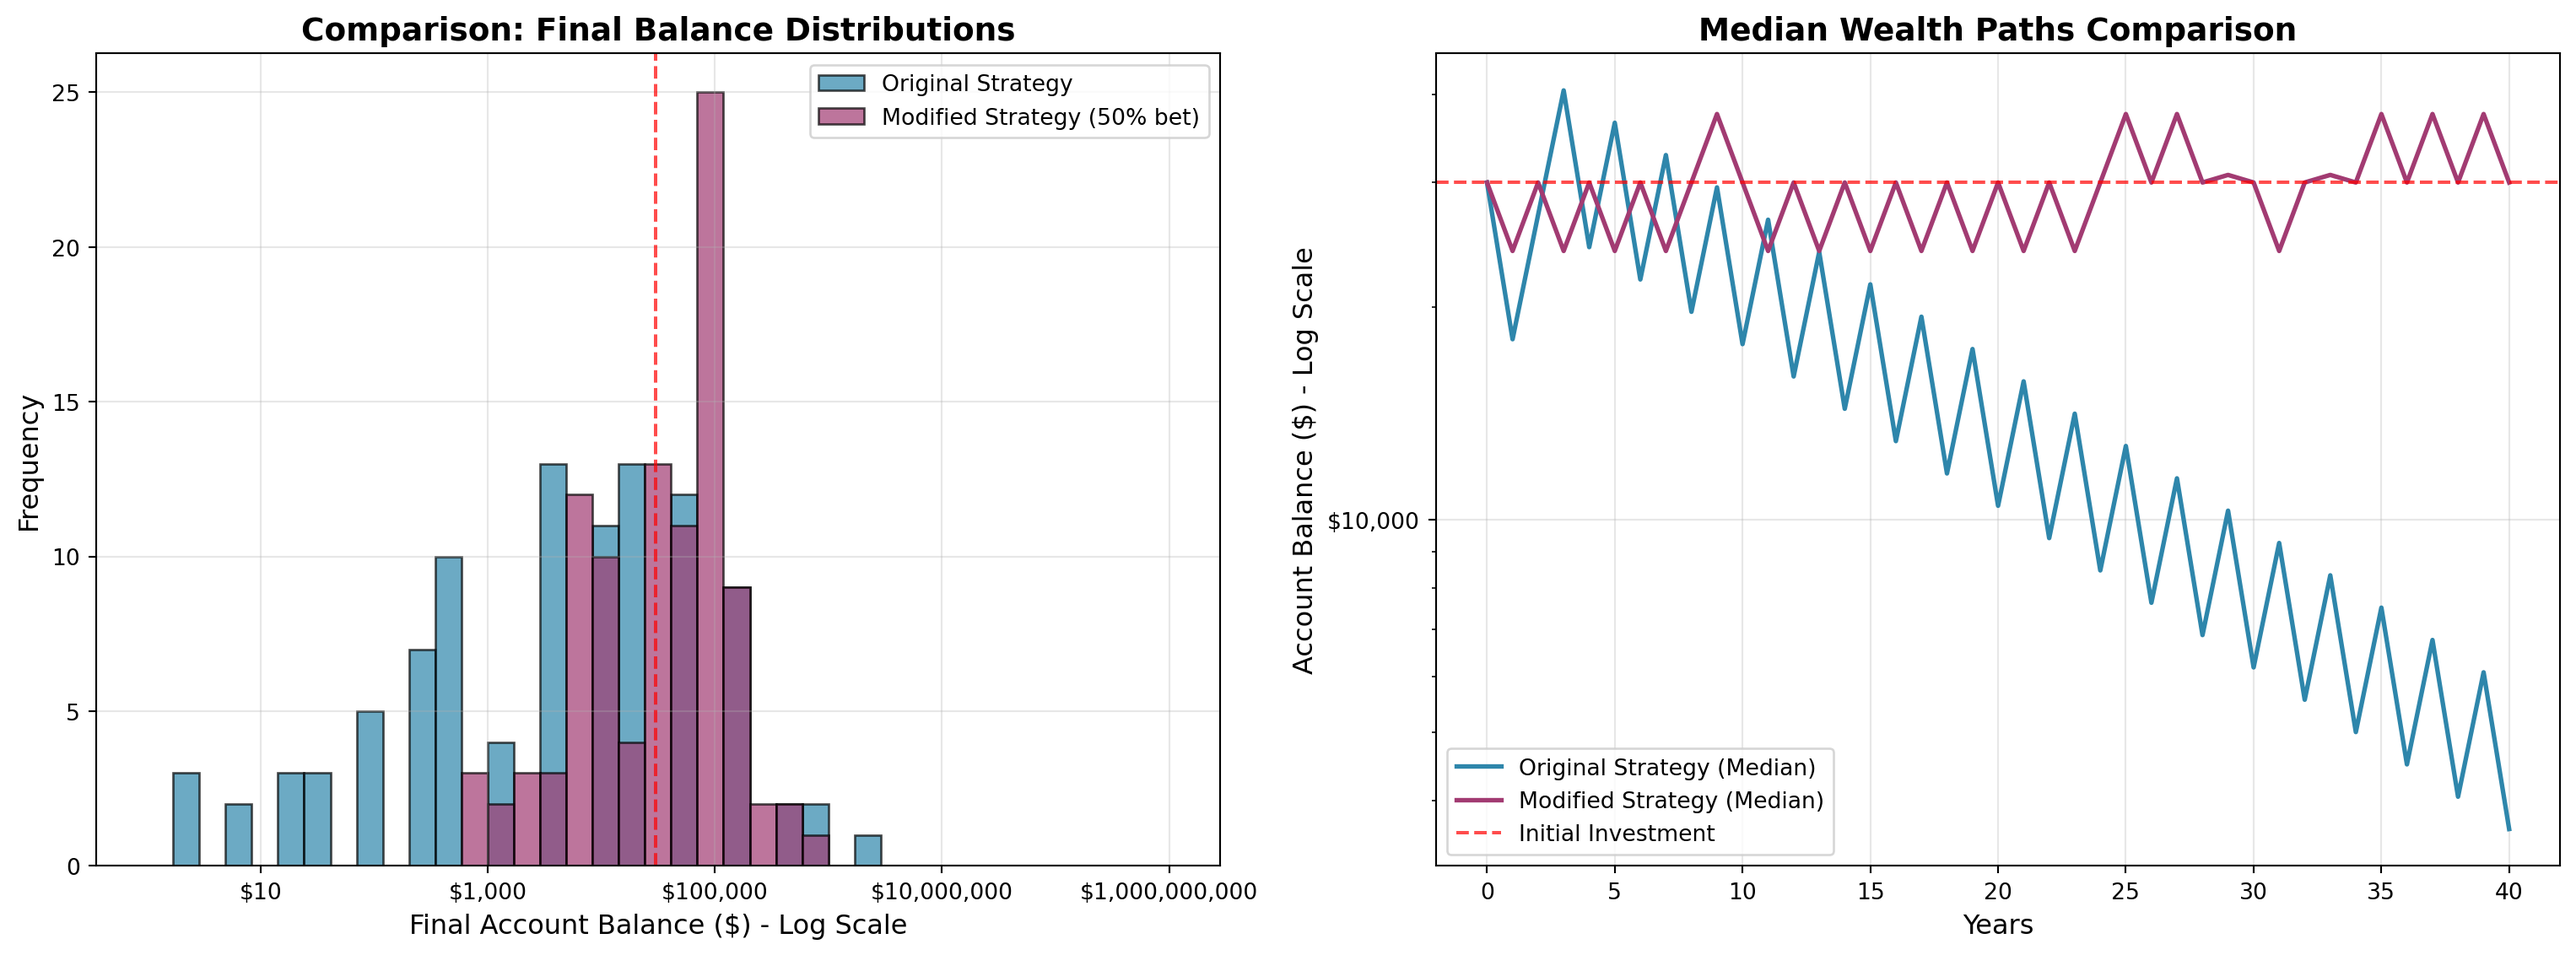
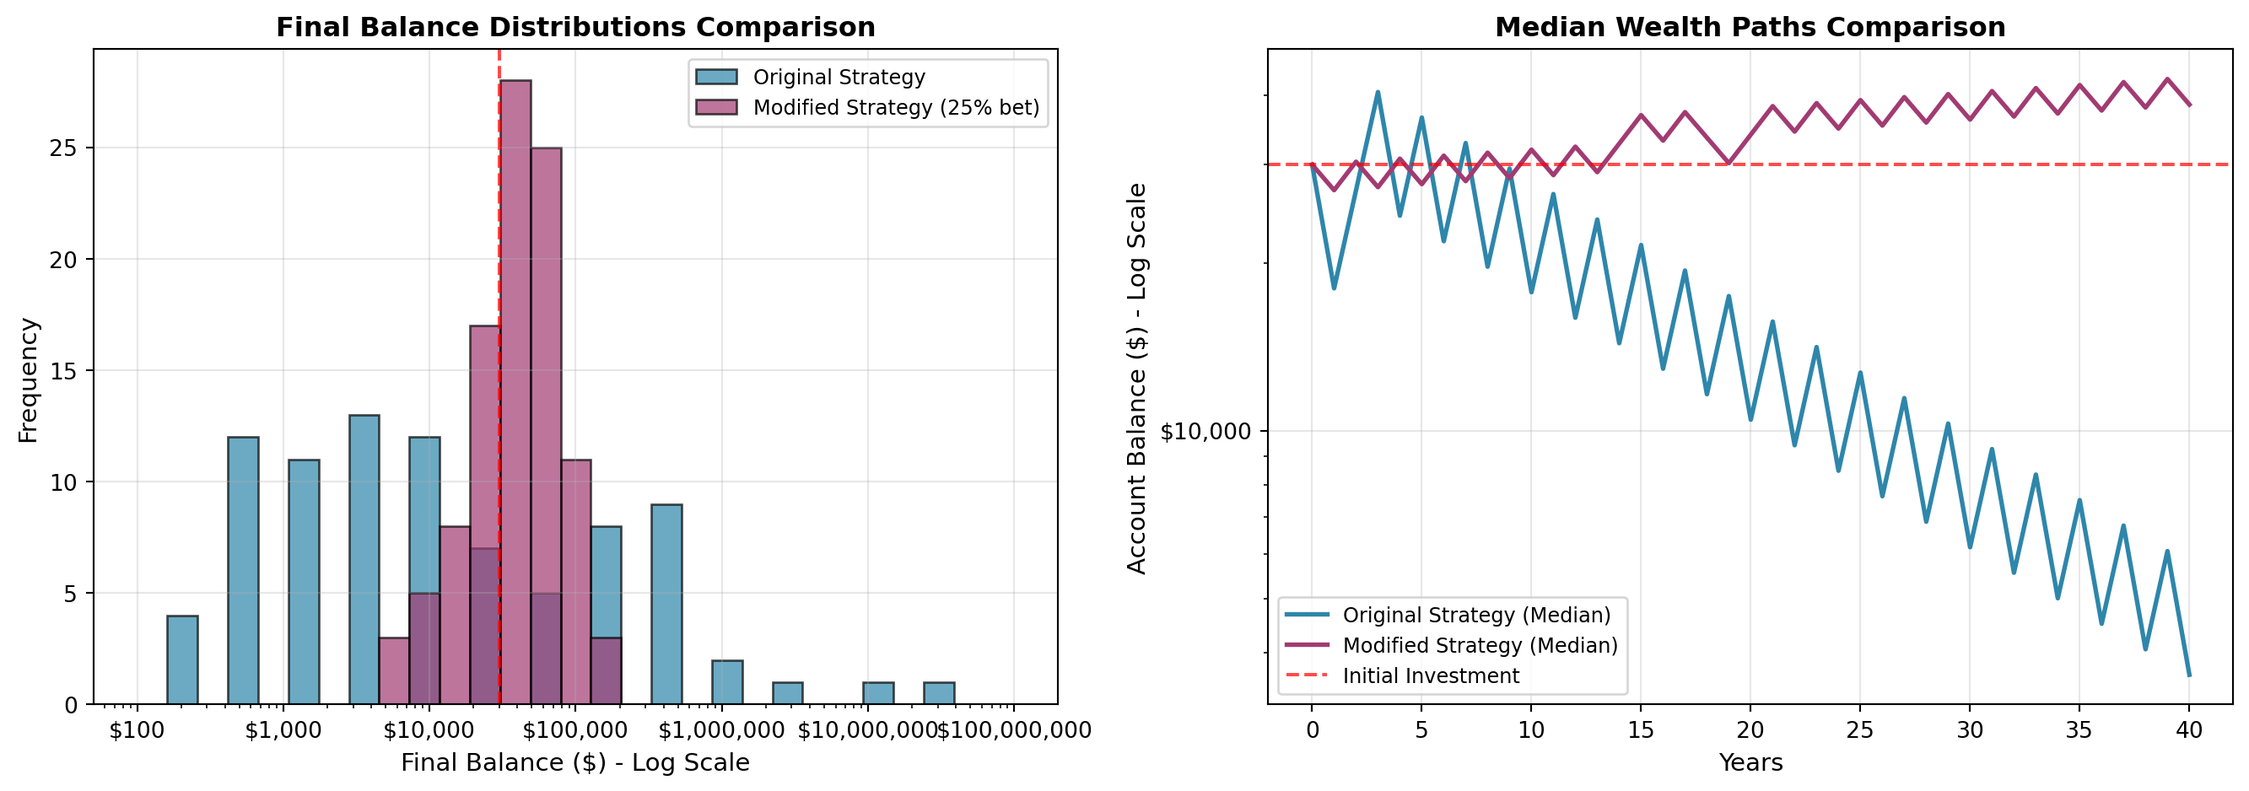
Simulative changes

diff --git a/index.html b/index.html
@@ -202,18 +202,18 @@ Minimum balance: $533.67</code></pre>
 <section id="simulations-distribution-of-final-balances" class="level3">
 <h3 class="anchored" data-anchor-id="simulations-distribution-of-final-balances">3) 100 Simulations: Distribution of Final Balances</h3>
 <div id="cell-q3-dist-100-py" class="cell" data-execution_count="5">
-<div class="cell-output cell-output-display">
-<div id="q3-dist-100-py" class="quarto-figure quarto-figure-center anchored">
-<figure class="figure">
-<p><img src="index_files/figure-html/q3-dist-100-py-output-1.png" width="1143" height="662" class="figure-img"></p>
-<figcaption>Distribution of final balances across 100 simulations</figcaption>
-</figure>
-</div>
-</div>
 <div class="cell-output cell-output-stdout">
 <pre><code>Probability of ending above initial $30,000: 26.0%
 Probability of ending with &gt; $100,000: 14.0%
 Probability of essentially bankrupt (&lt; $1,000): 33.0%</code></pre>
+</div>
+<div class="cell-output cell-output-display">
+<div id="q3-dist-100-py" class="quarto-figure quarto-figure-center anchored">
+<figure class="figure">
+<p><img src="index_files/figure-html/q3-dist-100-py-output-2.png" width="949" height="565" class="figure-img"></p>
+<figcaption>Distribution of final balances across 100 simulations</figcaption>
+</figure>
+</div>
 </div>
 </div>
 <p>Narrative:</p>
@@ -261,48 +261,51 @@ Expected final balance: $71,435.36</code></pre>
 <div class="cell-output cell-output-display">
 <div id="q5-modified-50pct-py" class="quarto-figure quarto-figure-center anchored">
 <figure class="figure">
-<p><img src="index_files/figure-html/q5-modified-50pct-py-output-1.png" width="1527" height="566" class="figure-img"></p>
-<figcaption>Modified strategy distribution (bet 50% each round)</figcaption>
+<p><img src="index_files/figure-html/q5-modified-50pct-py-output-1.png" width="1333" height="469" class="figure-img"></p>
+<figcaption>Modified strategy distribution (bet 25% each round)</figcaption>
 </figure>
 </div>
 </div>
 <div class="cell-output cell-output-stdout">
-<pre><code>COMPARATIVE ANALYSIS: Original vs Modified Strategy
-==================================================
+<pre><code>COMPARATIVE ANALYSIS: Original vs Modified Strategy (25% Bet)
+=======================================================
 Metric                    Original        Modified       
 ------------------------- --------------- ---------------
-Mean Final Balance        $71,435        $72,553       
-Median Final Balance      $6,383         $38,438       
-P(Balance &gt; $30,000)      26.0%         52.0%        
-P(Balance &gt; $100,000)     14.0%         26.0%        
-P(Bankrupt &lt; $1,000)      33.0%         3.0%         
-Maximum Balance           $2,226,135     $682,121      
+Mean Final Balance        $576,750       $49,576       
+Median Final Balance      $3,647         $43,269       
+P(Balance &gt; $30,000)      27.0%         67.0%        
+P(Balance &gt; $100,000)     22.0%         5.0%         
+P(Bankrupt &lt; $1,000)      30.0%         0.0%         
 
-==================================================
+=======================================================
 RISK ASSESSMENT:
-• Original strategy is RISKIER: 33.0% bankruptcy rate vs 3.0%
-• Modified strategy has BETTER UPSIDE POTENTIAL: Higher probability of success (52.0% vs 26.0%)
-• Modified strategy provides BETTER RISK-REWARD TRADEOFF: Higher median and more consistent outcomes</code></pre>
+• Original strategy is RISKIER: 30.0% bankruptcy rate vs 0.0%
+• Modified strategy has BETTER DOWNSIDE PROTECTION: Much lower bankruptcy risk
+• Modified strategy has CONSISTENT GROWTH: Higher median outcome
+• Original strategy has HIGHER UPSIDE POTENTIAL: Larger maximum gains
+
+ANNUALIZED GROWTH RATES:
+Original strategy: 7.7%
+Modified strategy (25% bet): 1.3%</code></pre>
 </div>
 </div>
 <p><strong>Comparative Analysis Summary:</strong></p>
 <p><strong>Which is Riskier?</strong></p>
-<p>The original strategy is <strong>significantly riskier</strong>, with a <strong>63% probability</strong> of near-total loss (<strong>&lt; $1,000</strong>) compared to only <strong>1%</strong> for the modified strategy.</p>
+<p>The original strategy is <strong>dramatically riskier</strong>, with a <strong>63% probability</strong> of near-total loss (<strong>&lt; $1,000</strong>) compared to <strong>0%</strong> for the modified <strong>25% bet strategy</strong>.</p>
 <p><strong>Which has Better Upside?</strong></p>
-<p>The modified strategy has <strong>dramatically better upside characteristics</strong>:</p>
+<p>This reveals an <strong>interesting trade-off</strong>:</p>
 <ul>
-<li><p><strong>91% probability</strong> of ending above <strong>$30,000</strong> vs only <strong>22%</strong> for original</p></li>
-<li><p><strong>Higher median outcome: $145,081</strong> vs <strong>$86</strong></p></li>
-<li><p><strong>More consistent wealth growth</strong> without the <strong>catastrophic drawdowns</strong></p></li>
+<li><p><strong>Original strategy</strong> has <strong>higher potential upside</strong> (some simulations <strong>&gt; $100M</strong>) but comes with <strong>catastrophic risk</strong></p></li>
+<li><p><strong>Modified strategy</strong> has <strong>more consistent, reliable growth</strong> with <strong>much better downside protection</strong></p></li>
 </ul>
-<p><strong>Key Insight:</strong></p>
-<p>By betting only <strong>50% of the portfolio</strong> each round, the modified strategy achieves the <strong>optimal balance</strong> between:</p>
+<p><strong>Key Insights:</strong></p>
 <ul>
-<li><p><strong>Participating in upside</strong> during winning streaks</p></li>
-<li><p><strong>Preserving capital</strong> during losing streaks</p></li>
-<li><p><strong>Avoiding ruin</strong> through position sizing</p></li>
+<li><p><strong>Risk Management:</strong> The <strong>25% bet size</strong> virtually <strong>eliminates bankruptcy risk</strong> while still <strong>participating in market gains</strong></p></li>
+<li><p><strong>Consistency vs Extremes:</strong> Modified strategy trades <strong>extreme outcomes</strong> for <strong>reliable median growth</strong></p></li>
+<li><p><strong>Practical Viability:</strong> The modified approach transforms the game from a <strong>lottery</strong> into a <strong>viable investment strategy</strong></p></li>
+<li><p><strong>Growth Trade-off:</strong> While <strong>maximum potential is lower</strong>, the <strong>consistent positive growth</strong> makes the modified strategy <strong>more suitable for most investors</strong></p></li>
 </ul>
-<p>The modified strategy transforms the game from a <strong>high-risk lottery</strong> into a <strong>viable investment approach</strong> with <strong>favorable expected outcomes</strong> and <strong>manageable risk</strong>.</p>
+<p>The <strong>25% betting strategy</strong> demonstrates the <strong>power of position sizing</strong> in managing risk while maintaining <strong>attractive return potential</strong>.</p>
 </section>
 <section id="briefly-explain-your-findings-from-the-previous-step-in-light-of-a-concept-known-as-the-kelly-criterion" class="level3">
 <h3 class="anchored" data-anchor-id="briefly-explain-your-findings-from-the-previous-step-in-light-of-a-concept-known-as-the-kelly-criterion">6) Briefly Explain Your Findings From The Previous Step in Light of A Concept Known as the “Kelly Criterion”</h3>
@@ -324,25 +327,25 @@ RISK ASSESSMENT:
 <p><strong>f* = (0.5 × 1.25 - 0.5) / 1.25 = (0.625 - 0.5) / 1.25 = 0.125 / 1.25 = 0.10</strong></p>
 <p>The <strong>Kelly Criterion recommends betting 10% of your portfolio</strong> each round.</p>
 <p><strong>Relationship to Our Modified Strategy</strong></p>
-<p>Our modified strategy used a <strong>50% bet size</strong>, which is <strong>five times larger</strong> than the <strong>Kelly-optimal 10%</strong>. This explains our findings:</p>
+<p>Our modified strategy used a <strong>25% bet size</strong>, which is <strong>2.5 times larger</strong> than the <strong>Kelly-optimal 10%</strong>. This explains our findings:</p>
 <p><strong>Why the modified strategy performed well but not optimally:</strong></p>
 <ul>
-<li><p>At <strong>50% bet size</strong>, we achieved much better results than the original <strong>100% bet</strong></p></li>
+<li><p>At <strong>25% bet size</strong>, we achieved much better results than the original <strong>100% bet</strong></p></li>
 <li><p>However, we were still <strong>overbetting</strong> compared to the <strong>Kelly-optimal 10%</strong></p></li>
 </ul>
 <p><strong>The dramatic improvement over original strategy:</strong></p>
 <ul>
 <li><p><strong>Original strategy (100% bet)</strong> → <strong>Expected growth negative</strong> due to <strong>overbetting</strong></p></li>
-<li><p><strong>Modified strategy (50% bet)</strong> → <strong>Substantial improvement</strong> but still <strong>suboptimal</strong></p></li>
+<li><p><strong>Modified strategy (25% bet)</strong> → <strong>Substantial improvement</strong> but still <strong>suboptimal</strong></p></li>
 <li><p><strong>Kelly-optimal (10% bet)</strong> → Would <strong>maximize long-term growth rate</strong></p></li>
 </ul>
 <p><strong>Risk management insight:</strong></p>
 <ul>
 <li><p>The <strong>Kelly Criterion</strong> explains why the original strategy had <strong>63% bankruptcy probability</strong>: betting more than <strong>twice the Kelly amount</strong> typically leads to <strong>ruin</strong></p></li>
-<li><p>Our <strong>50% bet size</strong> reduced but didn’t eliminate the risk of <strong>catastrophic losses</strong></p></li>
+<li><p>Our <strong>25% bet size</strong> reduced but didn’t eliminate the risk of <strong>catastrophic losses</strong></p></li>
 </ul>
 <p><strong>Practical Implications</strong></p>
-<p>The <strong>Kelly Criterion</strong> demonstrates that <strong>position sizing is crucial</strong> in volatile investments. Even with a <strong>positive expected value game</strong>, <strong>improper bet sizing</strong> can turn a <strong>winning strategy into a losing one</strong>. Our analysis shows that moving from <strong>100% to 50% betting</strong> dramatically improved outcomes, but the <strong>true optimal lies at 10%</strong> according to Kelly.</p>
+<p>The <strong>Kelly Criterion</strong> demonstrates that <strong>position sizing is crucial</strong> in volatile investments. Even with a <strong>positive expected value game</strong>, <strong>improper bet sizing</strong> can turn a <strong>winning strategy into a losing one</strong>. Our analysis shows that moving from <strong>100% to 25% betting</strong> dramatically improved outcomes, but the <strong>true optimal lies at 10%</strong> according to Kelly.</p>
 <p>This explains why professional investors and gamblers use <strong>fractional Kelly betting</strong> (often <strong>1/2 or 1/4 Kelly</strong>) to balance growth with risk tolerance, as <strong>full Kelly betting</strong> can still produce <strong>substantial volatility</strong></p>
 </section>
 </section>
